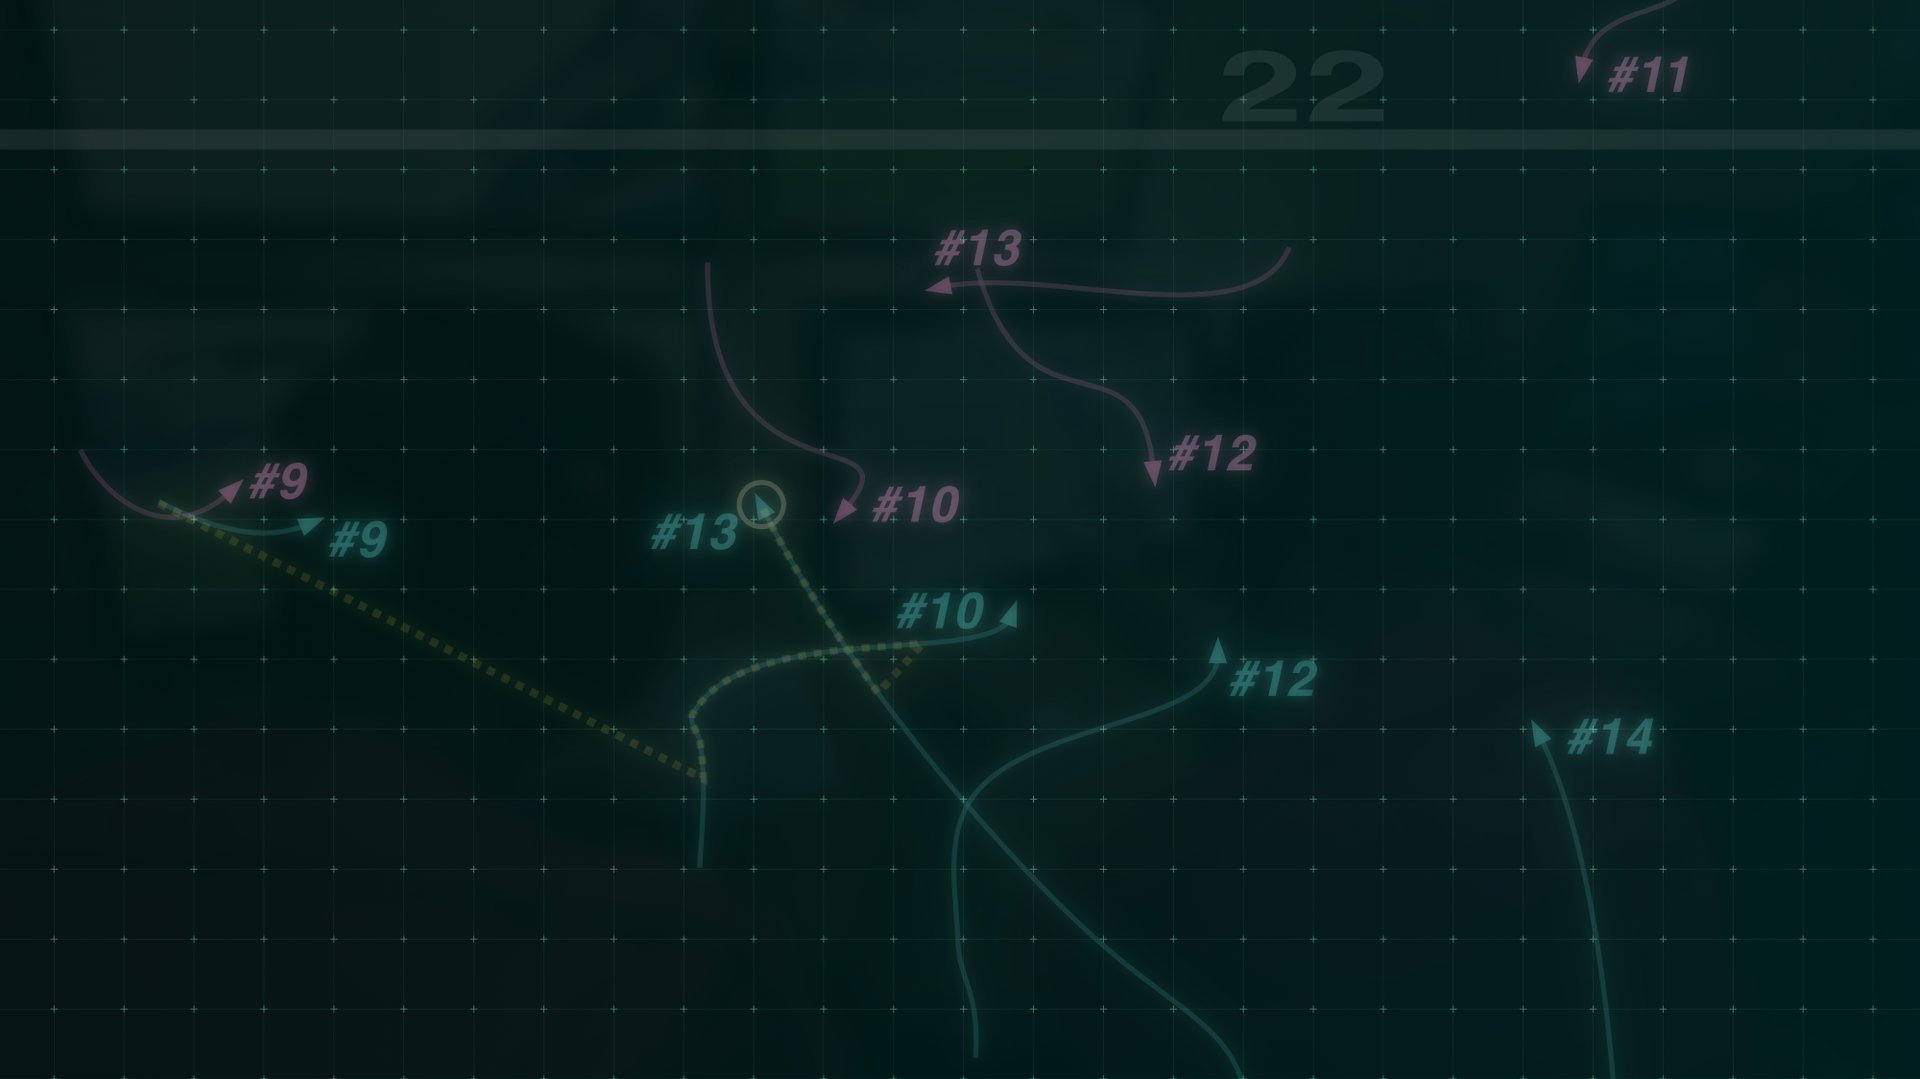
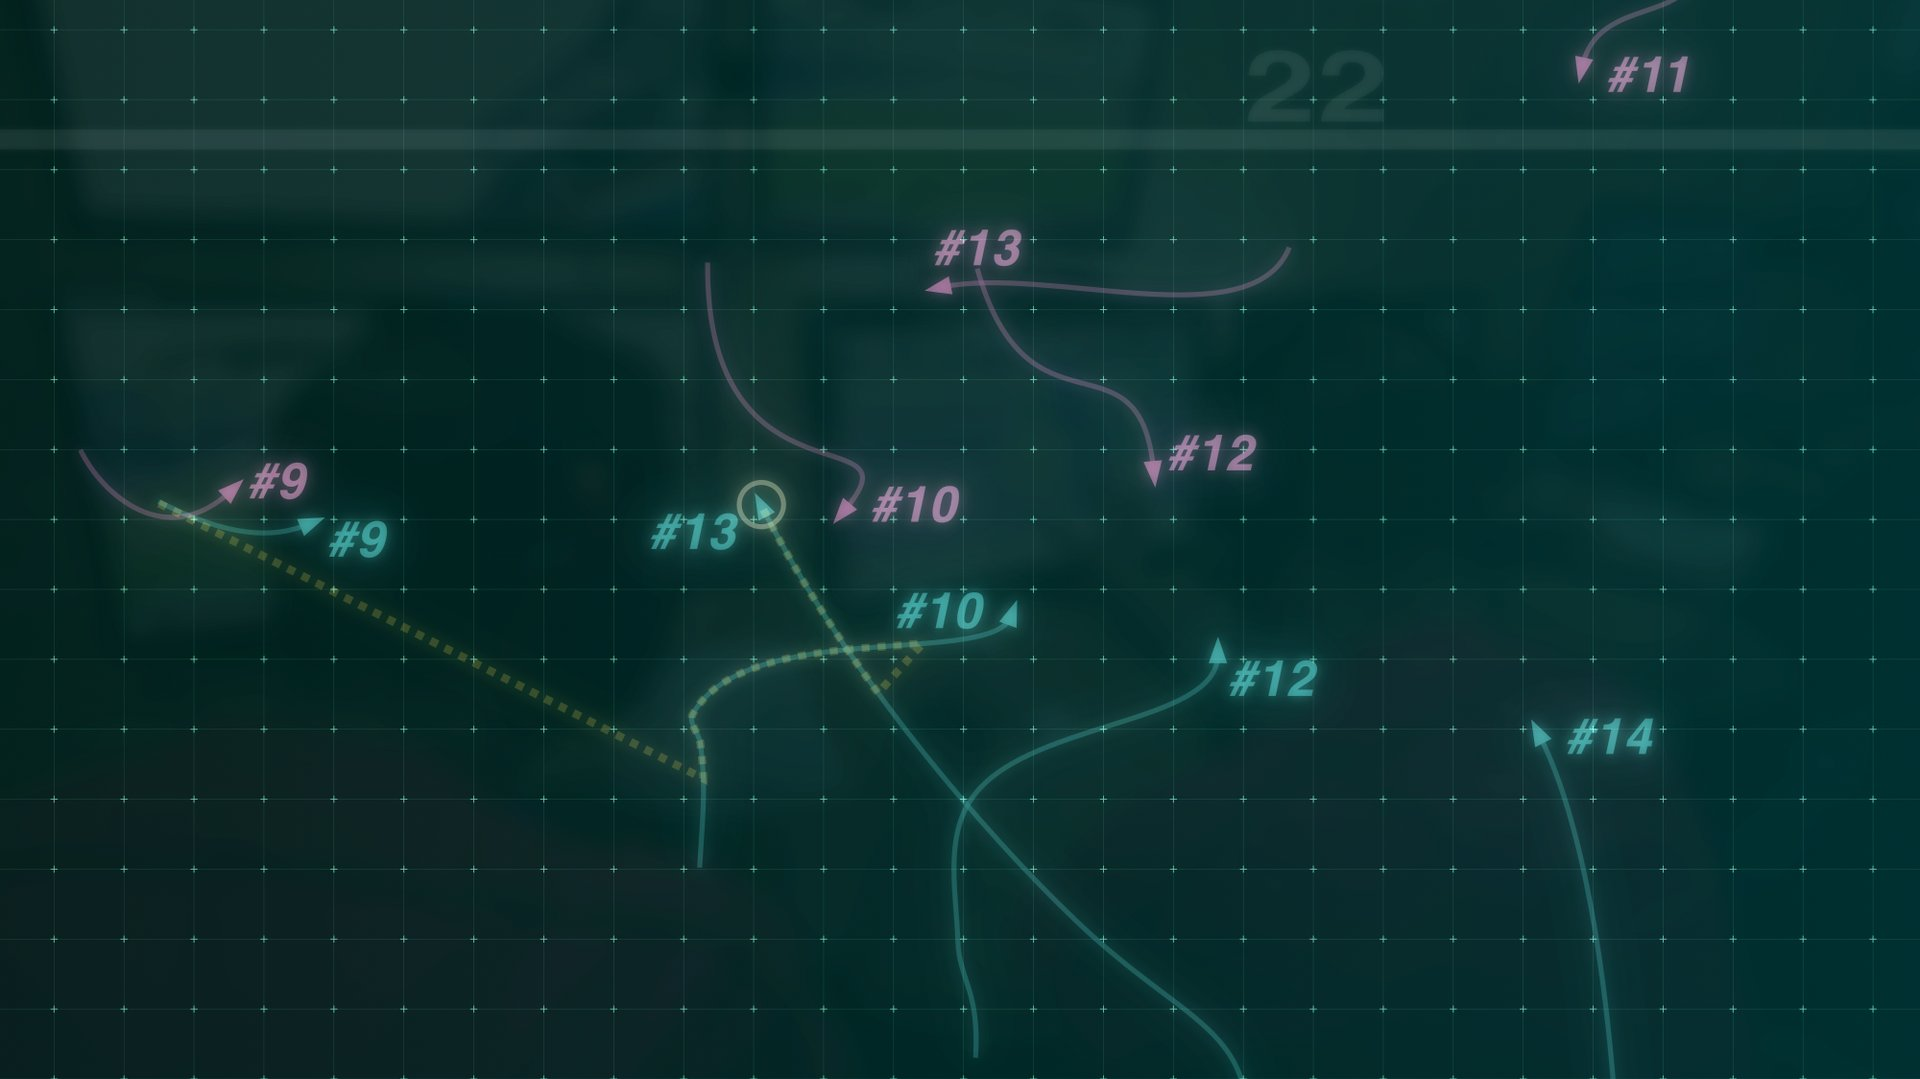
Test site: section-5 brighter bg + tile + text (enh 09c7e2c / base 6f6bcb4, v=20260715b)

diff --git a/noscript-enhanced/index.html b/noscript-enhanced/index.html
@@ -5,7 +5,7 @@
   <title>LABORATORY OF ANIMAL BEHAVIOURAL STRATEGIES</title>
   <meta name="viewport" content="width=device-width, initial-scale=1">
 
-  <link rel="stylesheet" href="styles_noscript.css?v=20260715a" type="text/css">
+  <link rel="stylesheet" href="styles_noscript.css?v=20260715b" type="text/css">
   <!-- 漸進強化: JSが無効ならこの2行は無害で、noscript版がそのまま表示される -->
   <link rel="stylesheet" href="enhance.css?v=20260710l" type="text/css">
   <script src="enhance.js?v=20260711c" defer></script>
@@ -83,7 +83,7 @@
   <a href="#section-2" class="img-wrap"><img src="images/experiment1.jpg" alt=""></a>
   <a href="#section-3" class="img-wrap"><img src="images/snake_frog.jpg" alt=""></a>
   <a href="#section-4" class="img-wrap"><img src="images/dive.jpg" alt=""></a>
-  <a href="#section-5" class="img-wrap"><img src="images/trajectory.jpg" alt=""></a>
+  <a href="#section-5" class="img-wrap"><img src="images/rugby_ops.jpg?v=20260715b" alt=""></a>
   <a href="#section-6" class="img-wrap"><img src="images/programming.jpg?v=20260711a" alt=""></a>
 </div>
     </div>
@@ -356,24 +356,24 @@
 
       <div class="text-block seminar-block">
         <p>
-          本研究室配属の大学院生と学部生には、人を含む様々な生き物を対象に、
-          行動や意思決定のパターンと合理性、運動や身体制御のパフォーマンスなどを
-          探る取り組みに従事していただきます。
+          本研究室配属の学生には、人を含む様々な生き物を対象に、
+          行動や意思決定のパターンと合理性、認知/運動のパフォーマンスなどを探る行動学研究や、
+          それと関連するVRシステムなどの技術開発に取り組んでいただきます。
         </p>
         <p>
-          研究テーマそのものは、行動生物学や人間行動科学、コンピュータサイエンス、
-          およびその応用分野（スポーツ、害獣対策など）に関するものが中心となり、
+          研究テーマそのものは、行動生物学、行動経済学、人間行動科学、行動シミュレーション、
+          ヒューマンマシンインターフェースおよびその応用分野（スポーツ、害獣対策、意思決定支援システムなど）に関するものが中心となり、
           そこで学生各自の専門性を培うことになります。
-          しかし、研究室での教育の趣旨は、特定分野の専門性や技術の習得だけではありません。
+          しかし、研究室での教育の趣旨は、こうした特定分野の専門性や技術の習得だけではありません。
           現象の背景にある仕組みを推理するには、事象を抽象的に捉えて論理を組み、
           様々な解釈を公正に整理する力が要ります。
-          それを他者に理解してもらうには、相手の視点に立って説明し、受け答えする力も欠かせません。
+          また、取り組みの意義や複雑な理屈を他者に理解してもらうには、相手の視点に立って説明し、受け答えする力も欠かせません。
           加えて、限られた年限で研究をやり遂げるには、自律と協働の力、
           そして先進技術や想定外に柔軟に適応する力も必要です。
         </p>
         <p>
           研究の過程は、こうした力をまとめて養う良い機会になります。
-          学生の皆さんには、この点を意識して研究活動に取り組むことを期待します。
+          学生の皆さんには、この点を意識して研究活動に励み、多方面に能力を伸ばしていくことを期待します。
         </p>
 
         <h3>■現在の学生の研究テーマ</h3>
@@ -382,7 +382,7 @@
           <li>カエルの空中姿勢制御</li>
           <li>害獣対策に向けた効果的な威嚇方策</li>
           <li>ダンスにおける非言語コミュニケーション</li>
-          <li>音響による心理影響メカニズム</li>
+          <li>人の心理に影響する音響の構成パターン</li>
         </ul>
       </div>
     </div>

diff --git a/noscript/index.html b/noscript/index.html
@@ -5,7 +5,7 @@
   <title>LABORATORY OF ANIMAL BEHAVIOURAL STRATEGIES</title>
   <meta name="viewport" content="width=device-width, initial-scale=1">
 
-  <link rel="stylesheet" href="styles_noscript.css?v=20260715a" type="text/css">
+  <link rel="stylesheet" href="styles_noscript.css?v=20260715b" type="text/css">
 </head>
 <body>
 
@@ -80,7 +80,7 @@
   <a href="#section-2" class="img-wrap"><img src="images/experiment1.jpg" alt=""></a>
   <a href="#section-3" class="img-wrap"><img src="images/snake_frog.jpg" alt=""></a>
   <a href="#section-4" class="img-wrap"><img src="images/dive.jpg" alt=""></a>
-  <a href="#section-5" class="img-wrap"><img src="images/trajectory.jpg" alt=""></a>
+  <a href="#section-5" class="img-wrap"><img src="images/rugby_ops.jpg?v=20260715b" alt=""></a>
   <a href="#section-6" class="img-wrap"><img src="images/programming.jpg?v=20260711a" alt=""></a>
 </div>
     </div>
@@ -353,24 +353,24 @@
 
       <div class="text-block seminar-block">
         <p>
-          本研究室配属の大学院生と学部生には、人を含む様々な生き物を対象に、
-          行動や意思決定のパターンと合理性、運動や身体制御のパフォーマンスなどを
-          探る取り組みに従事していただきます。
+          本研究室配属の学生には、人を含む様々な生き物を対象に、
+          行動や意思決定のパターンと合理性、認知/運動のパフォーマンスなどを探る行動学研究や、
+          それと関連するVRシステムなどの技術開発に取り組んでいただきます。
         </p>
         <p>
-          研究テーマそのものは、行動生物学や人間行動科学、コンピュータサイエンス、
-          およびその応用分野（スポーツ、害獣対策など）に関するものが中心となり、
+          研究テーマそのものは、行動生物学、行動経済学、人間行動科学、行動シミュレーション、
+          ヒューマンマシンインターフェースおよびその応用分野（スポーツ、害獣対策、意思決定支援システムなど）に関するものが中心となり、
           そこで学生各自の専門性を培うことになります。
-          しかし、研究室での教育の趣旨は、特定分野の専門性や技術の習得だけではありません。
+          しかし、研究室での教育の趣旨は、こうした特定分野の専門性や技術の習得だけではありません。
           現象の背景にある仕組みを推理するには、事象を抽象的に捉えて論理を組み、
           様々な解釈を公正に整理する力が要ります。
-          それを他者に理解してもらうには、相手の視点に立って説明し、受け答えする力も欠かせません。
+          また、取り組みの意義や複雑な理屈を他者に理解してもらうには、相手の視点に立って説明し、受け答えする力も欠かせません。
           加えて、限られた年限で研究をやり遂げるには、自律と協働の力、
           そして先進技術や想定外に柔軟に適応する力も必要です。
         </p>
         <p>
           研究の過程は、こうした力をまとめて養う良い機会になります。
-          学生の皆さんには、この点を意識して研究活動に取り組むことを期待します。
+          学生の皆さんには、この点を意識して研究活動に励み、多方面に能力を伸ばしていくことを期待します。
         </p>
 
         <h3>■現在の学生の研究テーマ</h3>
@@ -379,7 +379,7 @@
           <li>カエルの空中姿勢制御</li>
           <li>害獣対策に向けた効果的な威嚇方策</li>
           <li>ダンスにおける非言語コミュニケーション</li>
-          <li>音響による心理影響メカニズム</li>
+          <li>人の心理に影響する音響の構成パターン</li>
         </ul>
       </div>
     </div>

diff --git a/noscript-enhanced/styles_noscript.css b/noscript-enhanced/styles_noscript.css
@@ -787,7 +787,7 @@ section.parallax-section {
 .img-section-02 { background-image: url('images/experiment1.jpg');}
 .img-section-03 { background-image: url('images/snake_frog.jpg');}
 .img-section-04 { background-image: url('images/dive.jpg');}
-.img-section-05 { background-image: url('images/rugby_ops.jpg?v=20260715a');}
+.img-section-05 { background-image: url('images/rugby_ops.jpg?v=20260715b');}
 .img-section-06 { background-image: url('images/programming.jpg?v=20260711a');}
 
 
@@ -807,6 +807,8 @@ section.parallax-section {
   background: rgba(0,0,0,0.7); /* ← ここで暗さ調整 */
   z-index: 1; /* ← 背景の上、テキストの下 */
 }
+/* section-5(ゼミ/ラボ教育)だけ暗幕を薄くして背景を明るめに見せる */
+.parallax-section.img-section-05::before { background: rgba(0,0,0,0.5); }
 .parallax-section > * {
   position: relative;
   z-index: 2;
@@ -842,7 +844,7 @@ section.parallax-section {
   .img-section-02::after { background-image: url('images/experiment1.jpg'); }
   .img-section-03::after { background-image: url('images/snake_frog.jpg'); }
   .img-section-04::after { background-image: url('images/dive.jpg'); }
-  .img-section-05::after { background-image: url('images/rugby_ops.jpg?v=20260715a'); }
+  .img-section-05::after { background-image: url('images/rugby_ops.jpg?v=20260715b'); }
   .img-section-06::after { background-image: url('images/programming.jpg?v=20260711a'); }
 
   /* 強化版では #section-1 は高さマーカー化される(bg:none)ので

diff --git a/noscript/styles_noscript.css b/noscript/styles_noscript.css
@@ -787,7 +787,7 @@ section.parallax-section {
 .img-section-02 { background-image: url('images/experiment1.jpg');}
 .img-section-03 { background-image: url('images/snake_frog.jpg');}
 .img-section-04 { background-image: url('images/dive.jpg');}
-.img-section-05 { background-image: url('images/rugby_ops.jpg?v=20260715a');}
+.img-section-05 { background-image: url('images/rugby_ops.jpg?v=20260715b');}
 .img-section-06 { background-image: url('images/programming.jpg?v=20260711a');}
 
 
@@ -807,6 +807,8 @@ section.parallax-section {
   background: rgba(0,0,0,0.7); /* ← ここで暗さ調整 */
   z-index: 1; /* ← 背景の上、テキストの下 */
 }
+/* section-5(ゼミ/ラボ教育)だけ暗幕を薄くして背景を明るめに見せる */
+.parallax-section.img-section-05::before { background: rgba(0,0,0,0.5); }
 .parallax-section > * {
   position: relative;
   z-index: 2;
@@ -842,7 +844,7 @@ section.parallax-section {
   .img-section-02::after { background-image: url('images/experiment1.jpg'); }
   .img-section-03::after { background-image: url('images/snake_frog.jpg'); }
   .img-section-04::after { background-image: url('images/dive.jpg'); }
-  .img-section-05::after { background-image: url('images/rugby_ops.jpg?v=20260715a'); }
+  .img-section-05::after { background-image: url('images/rugby_ops.jpg?v=20260715b'); }
   .img-section-06::after { background-image: url('images/programming.jpg?v=20260711a'); }
 
   /* 強化版では #section-1 は高さマーカー化される(bg:none)ので

diff --git a/en.html b/en.html
@@ -31,7 +31,7 @@ development branch. The sites themselves are written in Japanese.</p>
 
 <a class="card" href="noscript-enhanced/">
   <h2>#1 No JavaScript — enhanced (combines #2 and #4)</h2>
-  <div class="meta">Branch: noscript-enhanced @ 0a77400 &middot; updated 2026-07-11</div>
+  <div class="meta">Branch: noscript-enhanced @ 09c7e2c &middot; updated 2026-07-11</div>
   <div class="desc">Keeps the lightness of the no-JavaScript build while reproducing, with a minimal
   amount of JavaScript, the seamless transition from the hero tile zoom into the section 1
   background, plus the missile and 360&deg; panorama effects. Missile control is always active
@@ -40,7 +40,7 @@ development branch. The sites themselves are written in Japanese.</p>
 
 <a class="card" href="noscript/">
   <h2>#2 No JavaScript — simple</h2>
-  <div class="meta">Branch: noscript-base @ be3b3c2 &middot; updated 2026-07-11</div>
+  <div class="meta">Branch: noscript-base @ 6f6bcb4 &middot; updated 2026-07-11</div>
   <div class="desc">A static build that uses no JavaScript at all. No elaborate scroll effects;
   even the navigation menu opens and closes with CSS alone.</div>
 </a>

diff --git a/index.html b/index.html
@@ -25,13 +25,13 @@
 
 <a class="card" href="noscript-enhanced/">
   <h2>noscript 強化版(B案プロトタイプ)</h2>
-  <div class="meta">ブランチ: noscript-enhanced @ 0a77400 / 更新: 2026-07-11</div>
+  <div class="meta">ブランチ: noscript-enhanced @ 09c7e2c / 更新: 2026-07-11</div>
   <div class="desc">noscript の軽快さを維持したまま、トップのタイル拡大→セクション1背景へのシームレス移行とミサイル/360度演出を最小JSで再現。ミサイル操作は常時ON(縦限界でページスクロールに引き継ぎ)。</div>
 </a>
 
 <a class="card" href="noscript/">
   <h2>noscript シンプル版</h2>
-  <div class="meta">ブランチ: noscript-base @ be3b3c2 / 更新: 2026-07-11</div>
+  <div class="meta">ブランチ: noscript-base @ 6f6bcb4 / 更新: 2026-07-11</div>
   <div class="desc">JavaScriptを使わない静的構成。複雑なスクロール演出なし。ナビ開閉もCSSのみ。</div>
 </a>
 
